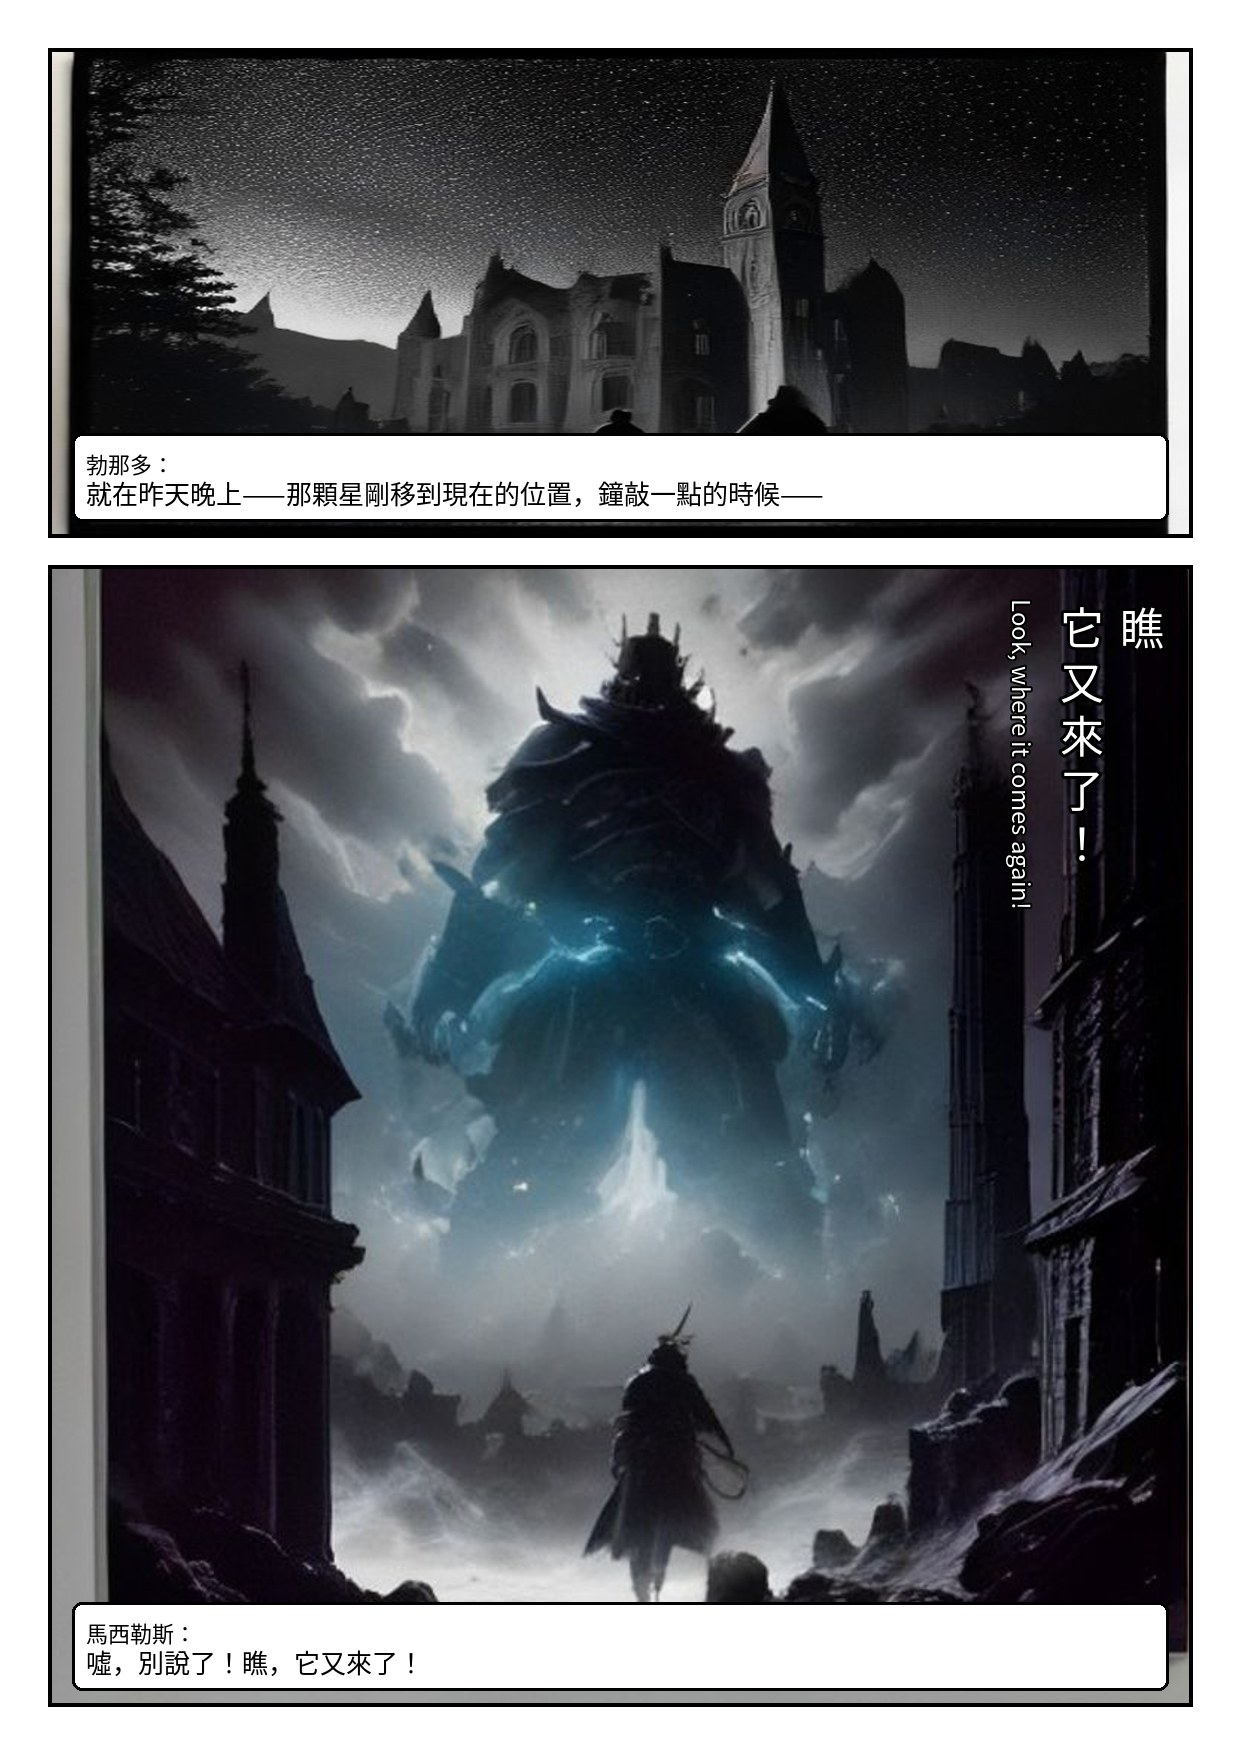
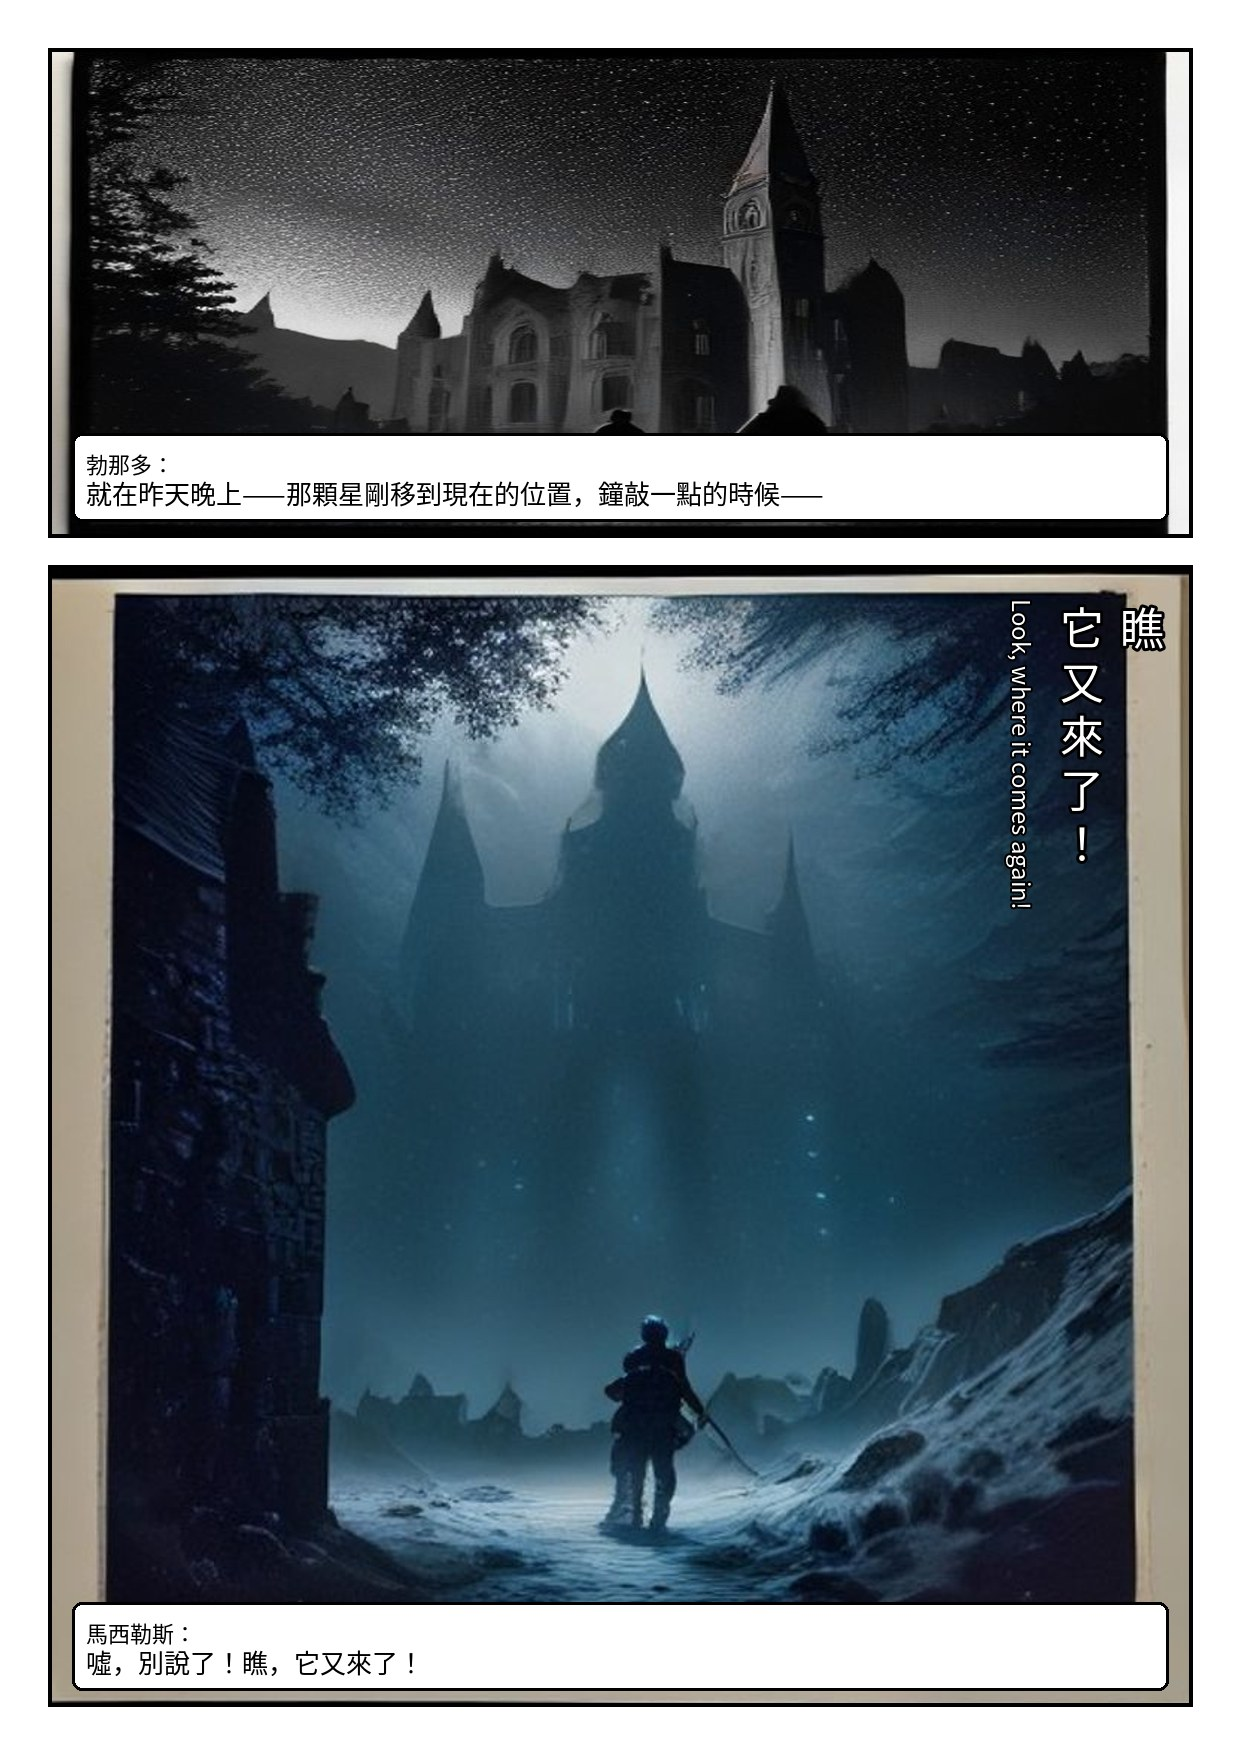
fix: 鬼魂降回人形尺度＋1-2 配角格 token 全拔（讀者回饋二連修）
- 鬼魂比例三修：字面尺度詞無效，改同平面構圖——1-1 現身格為人高甲冑
  立於霧中、面甲縫滲藍光；1-4to5 城牆對峙同法
- 1-2 p2-1/p2-2/p3-1：克勞地/葛簇特完整 token 拔除，改王座背影、
  投在王子身上的王冠影子、王后髮辮與伸手——彩色肖像根治
- prompt-notes 新增兩條鐵律：配角格禁掛完整 token；比例靠構圖不靠尺度詞

Claude-Session: https://claude.ai/code/session_01KKsnwbchHmyABmvTQeGnhX

diff --git a/docs/prompt-notes.md b/docs/prompt-notes.md
@@ -129,6 +129,13 @@
   （哈姆雷特/奧菲莉亞），鬼魂永不露臉（空面甲＋兩點幽藍／巨影／冷光滲出），
   配角靠剪影與手部道具（戒指手＋金冠、掐扶手白指節、拳中迷迭香）。
   1-1 鬼魂現身頁改無臉巨型甲冑後戲劇性大增——「不給臉」常常比給臉更有力。
+- **配角格連完整 token 都不能放**（1-2 二修實錘）：即使構圖文字寫了縱深/背影，
+  prompt 裡只要掛著配角完整 token（臉部詞＋金紅袍服），就會生成彩色正面肖像。
+  配角出場一律用代稱：`the crowned king seen from behind`、`a broad fur-robed silhouette`、
+  `the queen's coiled braids and golden circlet`——canon token 只出現在群像/遠景格。
+- **尺度詞不可靠，比例靠構圖**（鬼魂三修實錘）：`taller than a man by a head` 這種字面
+  尺度會被構圖壓過——「小人走向巨影」的縱深構圖必出巨物。要人形尺度就用
+  **level side view 同平面對峙**或前景人物肩膀定錨；反過來要巨物就用縱深仰角。
 - **物件主角格：臉部 token 必須整個退場**（Yorick 三修實錘）：格內只要出現角色臉部描述，
   臉就搶走主體——「手持骷髏」連敗三輪。第三修把王子移出畫面、純骷髏 macro shot 一次成功，
   台詞由畫外音承接。同理適用一切「道具當主角」的格（王冠、手帕、毒瓶）。
